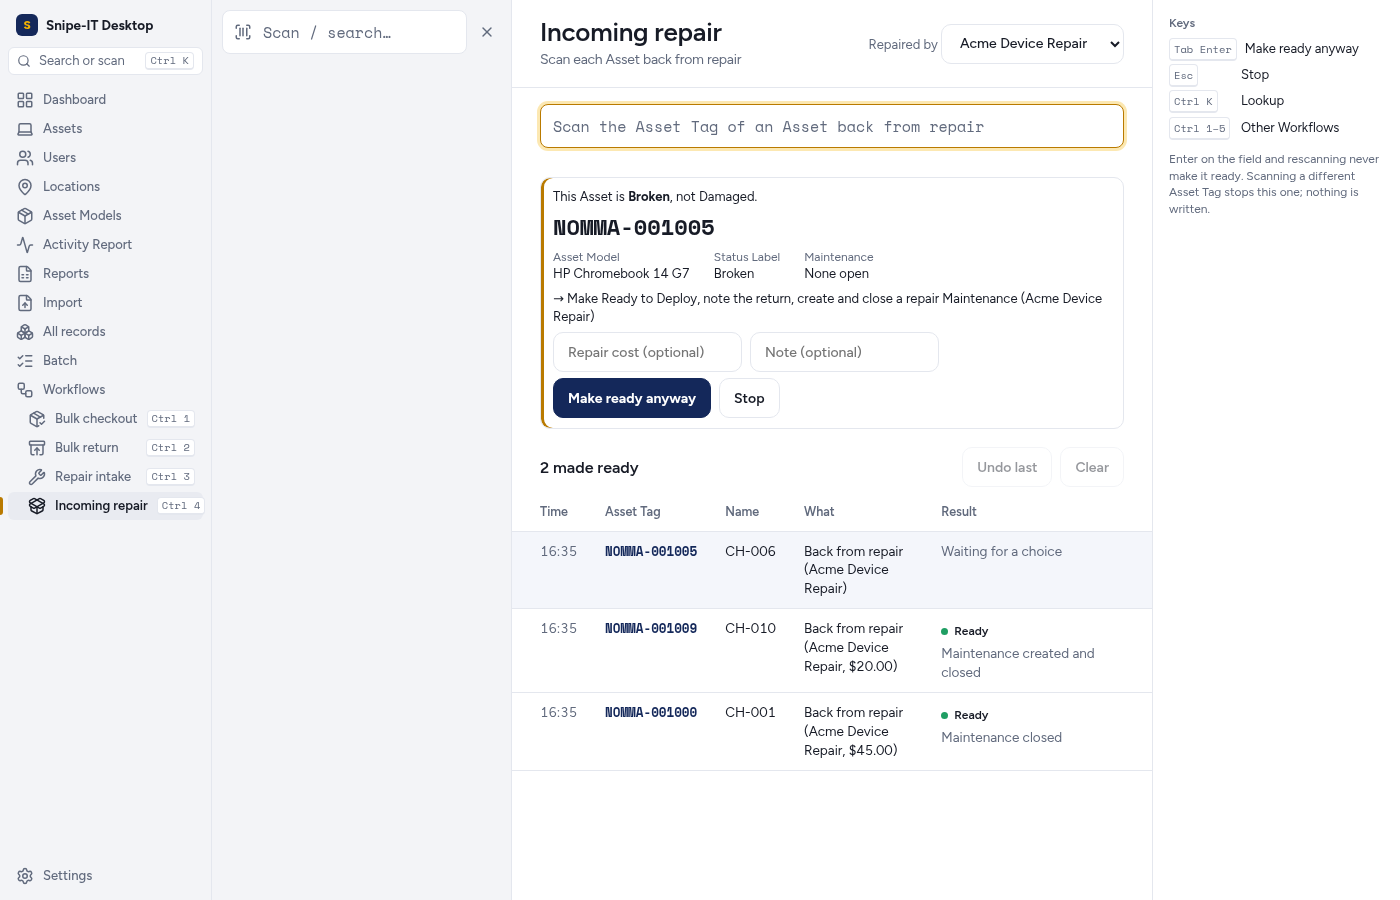
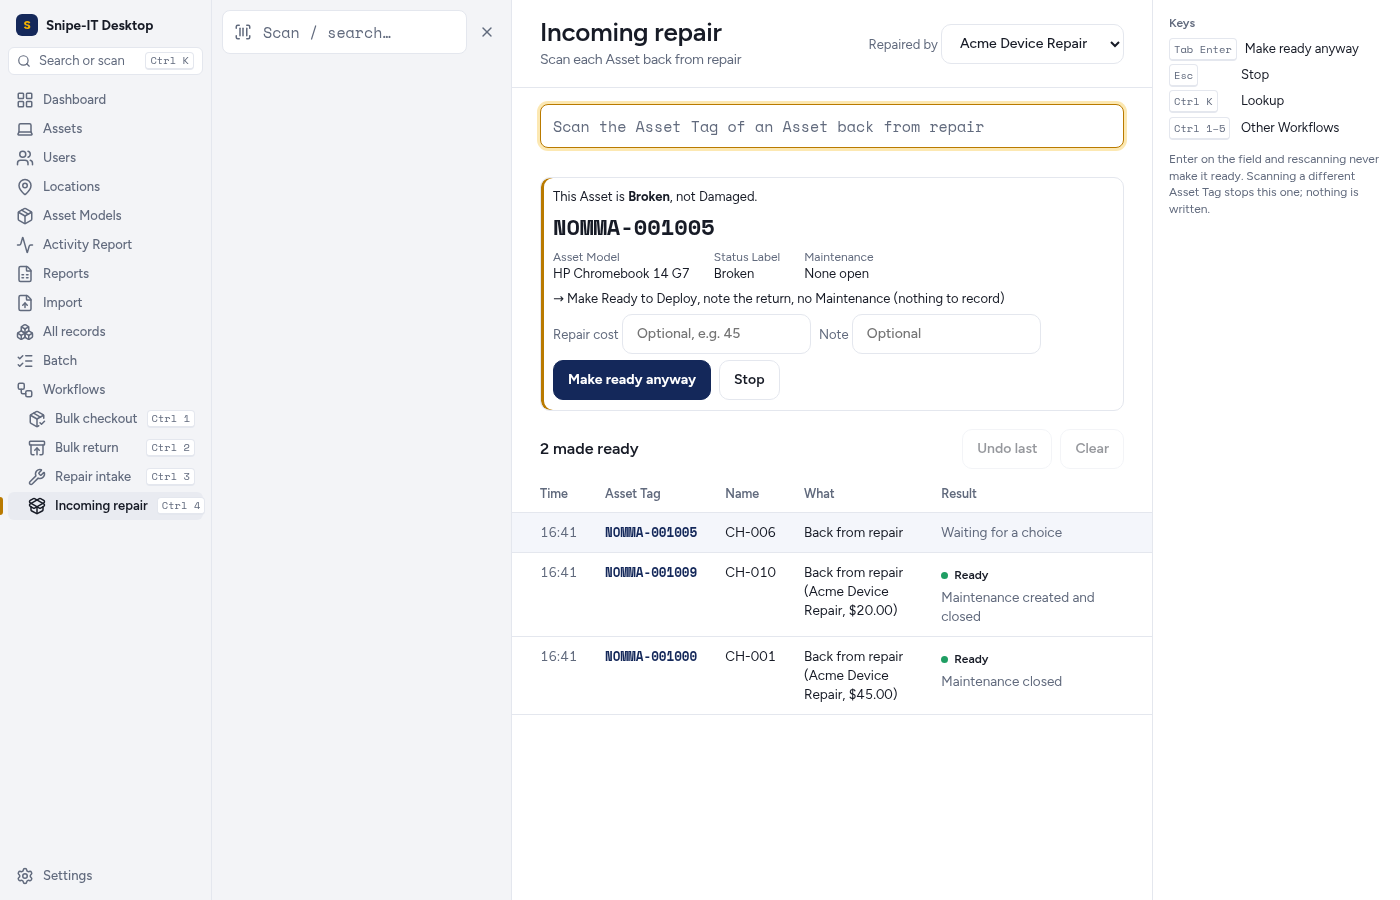
Review fixes: shared Repair type lookup, header Supplier alone records nothing for a non-Damaged Asset, Maintenance failures in the result
Also: Repair cost read back as two decimals (a numeric cost too) and checked as text at the IPC boundary, glossary
wording, labelled Repair cost and Note fields, and the screenshots again.

diff --git a/src/renderer/src/workflows.ts b/src/renderer/src/workflows.ts
@@ -589,12 +589,32 @@ export function createBulkCheckout(bridge: Pick<SnipeItBridge, 'assetByTag' | 'c
 export type BulkCheckout = ReturnType<typeof createBulkCheckout>
 
 export const DAMAGED = 'Damaged'
-const noLabel = (name: string) => `No Status Label named '${name}' in Snipe-IT; ask an admin to create one`
+const noLabel = (name: string) => `No Status Label named '${name}' in Snipe-IT; ask a Snipe-IT superuser to create one`
 export const NO_DAMAGED = noLabel(DAMAGED)
 const isRepair = (t: StatusLabel | null, typeId: number | null) => !!t && (t.id === typeId || t.name.trim().toLowerCase() === 'repair')
 /** What a repair Workflow needs from Snipe-IT before a scan: its Status Labels' ids by name, and the Maintenance type
  *  for repairs with the Settings id it was looked up with. */
 type RepairSetup = { labels: Record<string, number>; typeId: number | null; fallback: number | null }
+
+/** The Maintenance type for repairs, looked up once per session and shared by Repair intake and Incoming repair (#60
+ *  §1): looked up again while none is found, or when the Settings id it was looked up with changes. */
+export function sharedRepairType(lookup: SnipeItBridge['repairTypeId']) {
+  let kept: { fallback: number | null; id: Promise<number | null> } | null = null
+  return {
+    repairTypeId(fallback: number | null): Promise<number | null> {
+      if (kept?.fallback === fallback) return kept.id
+      const mine = { fallback, id: lookup(fallback) }
+      kept = mine
+      const forget = () => { if (kept === mine) kept = null }
+      mine.id.then((id) => id === null && forget(), forget)
+      return mine.id
+    },
+    /** Settings pointing at another server. */
+    reset() {
+      kept = null
+    },
+  }
+}
 
 // Repair intake and Incoming repair look up their Status Labels (by name, ignoring case) and the Maintenance type
 // (#59 §3's fallback chain) when they open, and keep them for the session. What isn't found yet is looked for again at
@@ -747,26 +767,32 @@ export function createRepairIntake(bridge: Pick<SnipeItBridge, 'assetByTag' | 'c
 export type RepairIntake = ReturnType<typeof createRepairIntake>
 
 /** What an Incoming repair scan was made under: the "Repaired by" Supplier then. Once its confirm or choice opens, also
- *  what the scan found (the newest open Repair Maintenance, how many others, the Repair type id) and the Repair cost
- *  typed there, as typed. */
-export type IncomingCtx = { supplier: StatusLabel | null; cost: string; found?: { open: OpenMaintenance | null; others: number; typeId: number | null } }
+ *  what the scan found (the newest open Repair Maintenance, how many others, the Repair type id, and whether it counts
+ *  as Damaged) and the Repair cost typed there, as typed. */
+export type IncomingCtx = { supplier: StatusLabel | null; cost: string; found?: { open: OpenMaintenance | null; others: number; typeId: number | null; damaged: boolean } }
 // A Repair cost as typed: '' when none, else `45.00`; throws with a message when it isn't a number.
 const costOf = (raw: string) => (raw.trim() ? repairCost(raw) : '')
 const wrong = (f: () => unknown) => { try { return f(), '' } catch (e) { return (e as Error).message } }
-const given = (supplier: StatusLabel | null, cost: string) => [supplier?.name, cost && `$${cost}`].filter(Boolean).join(', ')
-const backFrom = (supplier: StatusLabel | null, cost: string) => `Back from repair${given(supplier, cost) && ` (${given(supplier, cost)})`}`
+// "(Acme Device Repair, $45.00)", or '' with neither.
+const given = (supplier: StatusLabel | null, cost: string) => {
+  const g = [supplier?.name, cost && `$${cost}`].filter(Boolean).join(', ')
+  return g && ` (${g})`
+}
+const backFrom = (supplier: StatusLabel | null, cost: string) => `Back from repair${given(supplier, cost)}`
 // The Maintenance step (#60 §1): close the open one, create one and close it (only when a Supplier or Repair cost was
-// given), or, with no Repair type to create one with, put the Supplier and cost in the note so nothing typed is lost.
+// given), or, with no Repair type to create one with, put the Supplier and Repair cost in the note so nothing typed is
+// lost. An Asset made ready anyway (not Damaged) may never have gone for repair, so there the header's Supplier alone
+// records nothing; a Repair cost typed for it does.
 type Plan = 'close' | 'create' | 'note' | 'none'
 function planOf({ supplier, cost, found }: IncomingCtx): { plan: Plan; supplier: StatusLabel | null; cost: string } {
-  const { open, typeId } = found!
-  const c = (() => { try { return costOf(cost) } catch { return '' } })()
+  const { open, typeId, damaged } = found!
+  const c = wrong(() => costOf(cost)) ? '' : costOf(cost)
   // The Maintenance's own Supplier is kept; the header's fills one that has none.
   const s = open?.supplier ?? supplier
-  return { plan: open ? 'close' : !s && !c ? 'none' : typeId === null ? 'note' : 'create', supplier: s, cost: c }
+  return { plan: open ? 'close' : !c && !(s && damaged) ? 'none' : typeId === null ? 'note' : 'create', supplier: s, cost: c }
 }
 
-// Incoming repair (#60): pick who repaired the box once ("Repaired by"), then each scanned Asset is confirmed (with an
+// Incoming repair (#60): pick who repaired them once ("Repaired by"), then each scanned Asset is confirmed (with an
 // optional Repair cost and note), made Ready to Deploy, its return noted in History, and its open Repair Maintenance
 // closed with the Supplier and cost. Nothing after the status change undoes it.
 export function createIncomingRepair(
@@ -791,7 +817,9 @@ export function createIncomingRepair(
     // The newest is closed: Snipe-IT's ids grow with each new Maintenance.
     const open = repairs.reduce<OpenMaintenance | null>((n, m) => (n && n.id > m.id ? n : m), null)
     if (a.statusId === ready && !open) throw new Error('Already ready: nothing to do')
-    ctx.found = { open, others: Math.max(0, repairs.length - 1), typeId }
+    // Another status with an open Repair Maintenance counts as Damaged: someone changed the label by hand.
+    const isDamaged = a.statusId === damaged || !!open
+    ctx.found = { open, others: Math.max(0, repairs.length - 1), typeId, damaged: isDamaged }
 
     const write = async (current: Asset, text: string): Promise<Done> => {
       if (current.assignee || current.statusId !== a.statusId) throw new Error(`${a.assetTag} changed since it was scanned`)
@@ -802,6 +830,7 @@ export function createIncomingRepair(
       const still = () => sameSession(mine)
       await bridge.updateStatus(a.id, ready)
       still()
+      // "Ready, but <step> failed: <reason>" (#60 §2).
       const failed: string[] = []
       await bridge.addAssetNote(a.id, note).catch((e: Error) => failed.push(`the note failed: ${e.message}`))
       still()
@@ -820,7 +849,8 @@ export function createIncomingRepair(
           closed = true
           sub.push('Maintenance closed')
         } catch (e) {
-          sub.push(`Maintenance not closed: ${(e as Error).message}`)
+          sub.push('Maintenance not closed')
+          failed.push(`the Maintenance failed: ${(e as Error).message}`)
         }
         const n = ctx.found!.others
         if (n) sub.push(`${n} other open Maintenance${n === 1 ? '' : 's'} left as is`)
@@ -834,9 +864,10 @@ export function createIncomingRepair(
           await bridge.completeMaintenance(created, note)
           sub.push('Maintenance created and closed')
         } catch (e) {
-          sub.push(`Maintenance ${created === null ? 'not written' : 'created, not closed'}: ${(e as Error).message}`)
+          sub.push(`Maintenance ${created === null ? 'not written' : 'created, not closed'}`)
+          failed.push(`the Maintenance failed: ${(e as Error).message}`)
         }
-      } else sub.push(plan === 'note' ? 'Maintenance not written: no Repair type found' : 'Maintenance none (nothing to record)')
+      } else sub.push(plan === 'note' ? 'Maintenance not written: no Repair type found' : 'No Maintenance (nothing to record)')
 
       // Undo: the old Status Label and an undo note, then the Maintenance as it was. Only a failed status change stops it.
       const run = async (now: Asset): Promise<string> => {
@@ -858,14 +889,14 @@ export function createIncomingRepair(
         return left.join('; ')
       }
       const says = `${a.assetTag} made Ready to Deploy${closed ? ', its Maintenance closed' : created !== null ? ', a Maintenance created' : ''}`
-      return { text: `Ready${failed.length ? `, but ${failed.join('; ')}` : ''}`, what: backFrom(s, cost), sub, undo: { says, run } }
+      return { text: `Ready${failed.length ? `, but ${failed.join('; ')}` : ''}`, what: backFrom(plan === 'none' ? null : s, cost), sub, undo: { says, run } }
     }
 
-    const what = backFrom(open?.supplier ?? ctx.supplier, '')
+    // The header's Supplier shows only where it will be recorded.
+    const what = backFrom(isDamaged ? (open?.supplier ?? ctx.supplier) : null, '')
     // A link in the note, or a Repair cost that isn't a number, keeps it open.
     const check = (text: string) => wrong(() => (workflowNote('Incoming repair', { text }), costOf(ctx.cost)))
-    // Another status with an open Repair Maintenance counts as Damaged: someone changed the label by hand.
-    if (a.statusId === damaged || open) return { what, confirm: { check, write } }
+    if (isDamaged) return { what, confirm: { check, write } }
     return { what, choice: { fix: 'Make ready anyway', blocked: '', stop: 'not Damaged', check, write } }
   }, events, now, pace)
 
@@ -881,7 +912,7 @@ export function createIncomingRepair(
       supplier = s
       events.changed()
     },
-    /** Snipe-IT's Supplier picker list. */
+    /** Snipe-IT's Supplier picker list. ponytail: its first 50 by name, no search; a school has a few repair Suppliers. */
     suppliers: () => bridge.supplierSelectlist(''),
     /** Opening the Workflow: looks up what it doesn't have yet. fallback: Settings' Maintenance type for repairs. */
     open: (fallback: number | null) => setup.open(fallback),
@@ -893,11 +924,11 @@ export function createIncomingRepair(
       const ctx = openCtx()
       if (!ctx) return null
       const { plan, supplier: s, cost } = planOf(ctx)
-      const g = given(s, cost) && ` (${given(s, cost)})`
+      const g = given(s, cost)
       const step = {
         close: `, close the repair Maintenance${g}`,
         create: `, create and close a repair Maintenance${g}`,
-        note: ` with the ${[s && 'Supplier', cost && 'cost'].filter(Boolean).join(' and ')} (no Repair type found for a Maintenance)`,
+        note: ` with the ${[s && 'Supplier', cost && 'Repair cost'].filter(Boolean).join(' and ')} (no Repair type found for a Maintenance)`,
         none: ', no Maintenance (nothing to record)',
       }[plan]
       return `Make Ready to Deploy, note the return${step}`

diff --git a/src/renderer/src/workflows.test.ts b/src/renderer/src/workflows.test.ts
@@ -1,6 +1,6 @@
 import { describe, expect, it, vi } from 'vitest'
 import type { Asset, CheckinOptions, CheckoutOptions, MaintenanceChange, MaintenanceInput, OpenMaintenance, StatusLabel, UserCard } from '../../main/snipeit'
-import { cleanTag, createBulkCheckout, createBulkReturn, createIncomingRepair, createRepairIntake, createRunner, NOT_ALLOWED } from './workflows'
+import { cleanTag, createBulkCheckout, createBulkReturn, createIncomingRepair, createRepairIntake, createRunner, NOT_ALLOWED, sharedRepairType } from './workflows'
 
 // A fake Snipe-IT behind the Workflow bridge: fictional Assets, and every call recorded.
 const asset = (tag: string, more: Partial<Asset> = {}): Asset => ({
@@ -1279,7 +1279,7 @@ describe('Repair intake', () => {
     const fake = fakeBridge([asset('NOMMA-1')])
     const flow = createRepairIntake(fake.bridge, { changed: () => {} }, clock, 0)
     await flow.open(null)
-    expect(flow.blocked).toBe("No Status Label named 'Damaged' in Snipe-IT; ask an admin to create one")
+    expect(flow.blocked).toBe("No Status Label named 'Damaged' in Snipe-IT; ask a Snipe-IT superuser to create one")
     expect(flow.scan('NOMMA-1')).toBe(flow.blocked)
     expect(flow.runner.rows).toEqual([])
     // Created since: the next open finds it.
@@ -1486,7 +1486,7 @@ describe('Incoming repair', () => {
       fake.bridge.statusLabels.mockResolvedValue(labels)
       const flow = createIncomingRepair(fake.bridge, { changed: () => {} }, clock, 0)
       await flow.open(null)
-      expect(flow.blocked).toBe(labels === LABELS ? "No Status Label named 'Damaged' in Snipe-IT; ask an admin to create one" : "No Status Label named 'Ready to Deploy' in Snipe-IT; ask an admin to create one")
+      expect(flow.blocked).toBe(labels === LABELS ? "No Status Label named 'Damaged' in Snipe-IT; ask a Snipe-IT superuser to create one" : "No Status Label named 'Ready to Deploy' in Snipe-IT; ask a Snipe-IT superuser to create one")
       expect(flow.scan('NOMMA-1')).toBe(flow.blocked)
       expect(flow.runner.rows).toEqual([])
     }
@@ -1555,7 +1555,7 @@ describe('Incoming repair', () => {
       flow.runner.confirmOpen()
       await settled(flow)
       expect(writes(calls)).toEqual(['status 1 1', 'note 1 [Incoming repair]'])
-      expect(flow.runner.rows[0].sub).toEqual(['Maintenance none (nothing to record)'])
+      expect(flow.runner.rows[0].sub).toEqual(['No Maintenance (nothing to record)'])
     })
 
     it('one must be created but no Repair type is found: the Supplier and cost go in the note instead', async () => {
@@ -1564,7 +1564,7 @@ describe('Incoming repair', () => {
       flow.scan('NOMMA-1')
       await showing(flow)
       flow.setCost('45')
-      expect(flow.says).toBe('Make Ready to Deploy, note the return with the Supplier and cost (no Repair type found for a Maintenance)')
+      expect(flow.says).toBe('Make Ready to Deploy, note the return with the Supplier and Repair cost (no Repair type found for a Maintenance)')
       flow.runner.setText('screen replaced')
       flow.runner.confirmOpen()
       await settled(flow)
@@ -1575,7 +1575,7 @@ describe('Incoming repair', () => {
     it("a Maintenance step that fails leaves the Asset Ready and says why; a failed note says so in the result", async () => {
       const { flow, bridge } = await opened([damaged('NOMMA-1'), damaged('NOMMA-2')], { 1: [maintenance(51)] })
       bridge.completeMaintenance.mockRejectedValueOnce(new Error('This maintenance is already complete.'))
-      expect((await back(flow, 'NOMMA-1')).sub).toEqual(['Maintenance not closed: This maintenance is already complete.'])
+      expect(await back(flow, 'NOMMA-1')).toMatchObject({ result: { state: 'done', text: 'Ready, but the Maintenance failed: This maintenance is already complete.' }, sub: ['Maintenance not closed'] })
       bridge.addAssetNote.mockRejectedValueOnce(new Error('Snipe-IT returned HTTP 500'))
       expect((await back(flow, 'NOMMA-2')).result).toEqual({ state: 'done', text: 'Ready, but the note failed: Snipe-IT returned HTTP 500' })
     })
@@ -1646,6 +1646,32 @@ describe('Incoming repair', () => {
         'maintenance 1 type 9 "NOMMA-1 repair" 2026-10-11 [Incoming repair] No Repair intake record supplier 3 cost 30.00', 'complete maintenance 61 [Incoming repair] hinge replaced',
       ])
     })
+  })
+
+  it("made ready anyway, the header's Supplier alone records no Maintenance: the Asset may never have gone for repair", async () => {
+    const { flow, calls } = await opened([damaged('NOMMA-1', { status: 'Pending', statusId: 5, statusType: 'pending' })])
+    flow.setSupplier(ACME)
+    flow.scan('NOMMA-1')
+    await showing(flow)
+    expect(flow.says).toBe('Make Ready to Deploy, note the return, no Maintenance (nothing to record)')
+    flow.runner.fixOpen()
+    await settled(flow)
+    expect(writes(calls)).toEqual(['status 1 1', 'note 1 [Incoming repair]'])
+  })
+
+  it('shares one Repair type lookup with Repair intake for the session, looked up again while none is found or the Settings id changes', async () => {
+    const lookup = vi.fn(async (fallback: number | null) => (fallback === 12 ? 4 : null))
+    const shared = sharedRepairType(lookup)
+    expect(await shared.repairTypeId(null)).toBeNull()
+    expect(await shared.repairTypeId(null)).toBeNull()
+    expect(await shared.repairTypeId(12)).toBe(4)
+    expect(await shared.repairTypeId(12)).toBe(4)
+    expect(lookup.mock.calls).toEqual([[null], [null], [12]])
+    lookup.mockRejectedValueOnce(new Error("Can't reach Snipe-IT"))
+    shared.reset()
+    await expect(shared.repairTypeId(12)).rejects.toThrow("Can't reach Snipe-IT")
+    expect(await shared.repairTypeId(12)).toBe(4)
+    expect(lookup).toHaveBeenCalledTimes(5)
   })
 
   describe('Repair cost', () => {

diff --git a/src/main/snipeit.ts b/src/main/snipeit.ts
@@ -287,7 +287,13 @@ type RawActivity = {
 
 const EXPIRING_DAYS = 90
 // A Repair cost as the app writes it (notes.ts repairCost): 45.00.
-const COST = /^\d+\.\d{2}$/
+const isCost = (v: unknown) => typeof v === 'string' && /^\d+\.\d{2}$/.test(v)
+// A Maintenance's cost as Snipe-IT sends it ("1,234.5", or a number) as the app writes it, or null. ponytail: assumes a
+// '.' decimal separator, as #79 does.
+const costOf = (v: unknown) => {
+  const n = Number(String(v ?? '').replace(/,/g, ''))
+  return v === null || v === undefined || v === '' || !(n >= 0) ? null : n.toFixed(2)
+}
 // Rows per List page.
 export const LIST_PAGE = 50
 // Kinds counted by quantity: their list, and the fields for the whole quantity and the available part. Used is the rest.
@@ -1209,7 +1215,7 @@ export function createSnipeIt(config: Config, fetch: typeof globalThis.fetch, to
       // Snipe-IT sends the cost formatted ("1,234.50") and the notes rendered from Markdown.
       return body.rows.map((m) => ({
         id: m.id, type: named(m.maintenance_type_details), startDate: m.start_date?.date ?? null, notes: plainText(m.notes ?? ''),
-        supplier: named(m.supplier), cost: String(m.cost ?? '').replace(/[^\d.]/g, '') || null,
+        supplier: named(m.supplier), cost: costOf(m.cost),
       }))
     },
     // Opens a Maintenance on one Asset; resolves to its id. Needs `assets.edit`.
@@ -1217,7 +1223,7 @@ export function createSnipeIt(config: Config, fetch: typeof globalThis.fetch, to
       checkId(assetId)
       checkId(typeId, 'Maintenance type')
       if (supplierId !== undefined) checkId(supplierId, 'Supplier')
-      if (typeof name !== 'string' || !name.trim() || typeof notes !== 'string' || !/^\d{4}-\d{2}-\d{2}$/.test(startDate) || (cost !== undefined && !COST.test(cost))) throw new Error('Invalid Maintenance')
+      if (typeof name !== 'string' || !name.trim() || typeof notes !== 'string' || !/^\d{4}-\d{2}-\d{2}$/.test(startDate) || (cost !== undefined && !isCost(cost))) throw new Error('Invalid Maintenance')
       const body = await request<{ payload?: { id?: number } }>('/maintenances', { asset_id: assetId, maintenance_type_id: typeId, name, start_date: startDate, notes, ...(supplierId !== undefined && { supplier_id: supplierId }), ...(cost !== undefined && { cost }) })
       if (isError(body)) throw new Error(reason(body.messages))
       return Number(body.payload?.id)
@@ -1227,7 +1233,7 @@ export function createSnipeIt(config: Config, fetch: typeof globalThis.fetch, to
     async updateMaintenance(id: number, { supplierId, cost, reopen }: MaintenanceChange): Promise<void> {
       checkId(id, 'Maintenance')
       if (supplierId != null) checkId(supplierId, 'Supplier')
-      if (cost != null && !COST.test(cost)) throw new Error('Invalid Maintenance')
+      if (cost != null && !isCost(cost)) throw new Error('Invalid Maintenance')
       const body = await request(`/maintenances/${id}`, {
         ...(supplierId !== undefined && { supplier_id: supplierId }), ...(cost !== undefined && { cost }),
         ...(reopen === true && { completed_at: null, completed_by: null, asset_maintenance_time: null }),

diff --git a/src/renderer/src/App.tsx b/src/renderer/src/App.tsx
@@ -13,7 +13,7 @@ import { FieldGrid, RecordView } from './RecordView'
 import { DeleteButton, RecordForm } from './RecordForm'
 import { GroupsView, type CanManage } from './AccessView'
 import { AssetCodes, PrintLabel } from './AssetCodes'
-import { createBulkCheckout, createBulkReturn, createIncomingRepair, createRepairIntake, NOT_ALLOWED, type Runner } from './workflows'
+import { createBulkCheckout, createBulkReturn, createIncomingRepair, createRepairIntake, NOT_ALLOWED, sharedRepairType, type Runner } from './workflows'
 import { BUILT, BulkCheckoutView, BulkReturnView, errorSound, IncomingRepairView, RepairIntakeView, shortcut, workflowIcon, WorkflowsPage } from './WorkflowsView'
 
 const statusColor: Record<string, string> = {
@@ -101,8 +101,10 @@ export function App() {
   const [, changed] = useReducer((n: number) => n + 1, 0)
   const [bulkCheckout] = useState(() => createBulkCheckout(window.snipeIt, { changed, failed: errorSound }))
   const [bulkReturn] = useState(() => createBulkReturn(window.snipeIt, { changed, failed: errorSound }))
-  const [repairIntake] = useState(() => createRepairIntake(window.snipeIt, { changed, failed: errorSound }))
-  const [incomingRepair] = useState(() => createIncomingRepair(window.snipeIt, { changed, failed: errorSound }))
+  // The two repair Workflows share one Repair type lookup (#60 §1).
+  const [repairType] = useState(() => sharedRepairType(window.snipeIt.repairTypeId))
+  const [repairIntake] = useState(() => createRepairIntake({ ...window.snipeIt, repairTypeId: repairType.repairTypeId }, { changed, failed: errorSound }))
+  const [incomingRepair] = useState(() => createIncomingRepair({ ...window.snipeIt, repairTypeId: repairType.repairTypeId }, { changed, failed: errorSound }))
   const runners: Partial<Record<Workflow, Pick<Runner, 'rows' | 'pending'>>> = { 'Bulk checkout': bulkCheckout.runner, 'Bulk return': bulkReturn.runner, 'Repair intake': repairIntake.runner, 'Incoming repair': incomingRepair.runner }
   const workflowField = useRef<HTMLInputElement>(null)
   // Whether the Operator's own account may manage permissions: null until Snipe-IT says, or why it couldn't be asked.
@@ -181,6 +183,7 @@ export function App() {
     if (!over) return
     bulkCheckout.reset()
     bulkReturn.reset()
+    repairType.reset()
     repairIntake.reset()
     incomingRepair.reset()
     cancel(); setAsset(null); setRecent([]); batchEpoch.current++; batchBusy.current = false; setBatch([]); bulkBusy.current = false; setBulk(null); setBatchRun({ busy: false, last: null }); setMatches({ label: '', assets: [] }); setOthers([]); setView(null); setQuery(''); setMessage({ text: '' }); setStatusLabels([]); setLocations([]); setCanManage(null); setCanImport(false)

diff --git a/src/main/snipeit.test.ts b/src/main/snipeit.test.ts
@@ -1545,10 +1545,11 @@ describe('Incoming repair', () => {
   })
 
   it("an open Maintenance carries its start date, plain notes, Supplier and Repair cost (as Snipe-IT's number)", async () => {
-    const { fetch } = fakeFetch({ '/maintenances': { body: { total: 2, rows: [open, { id: 52, name: 'x', notes: null, supplier: null, cost: null, start_date: null, maintenance_type_details: null }] } } })
+    const { fetch } = fakeFetch({ '/maintenances': { body: { total: 3, rows: [open, { id: 52, name: 'x', notes: null, supplier: null, cost: null, start_date: null, maintenance_type_details: null }, { ...open, id: 53, cost: 30 }] } } })
     expect(await createSnipeIt(config, fetch).openMaintenances(4812)).toEqual([
       { id: 51, type: { id: 4, name: 'Repair' }, startDate: '2026-10-01', notes: '[Repair intake] cracked & bent', supplier: { id: 3, name: 'Campus Tech Supply' }, cost: '1234.50' },
       { id: 52, type: null, startDate: null, notes: '', supplier: null, cost: null },
+      expect.objectContaining({ id: 53, cost: '30.00' }),
     ])
   })
 
@@ -1571,7 +1572,7 @@ describe('Incoming repair', () => {
       ['PATCH', '/maintenances/51', { cost: '45.00' }],
       ['PATCH', '/maintenances/51', { supplier_id: null, cost: null, completed_at: null, completed_by: null, asset_maintenance_time: null }],
     ])
-    for (const bad of [{ cost: '1,234.50' }, { supplierId: 1.5 }, { cost: '-1.00' }]) await expect(snipeIt.updateMaintenance(51, bad)).rejects.toThrow('Invalid')
+    for (const bad of [{ cost: '1,234.50' }, { supplierId: 1.5 }, { cost: '-1.00' }, { cost: ['45.00'] as unknown as string }]) await expect(snipeIt.updateMaintenance(51, bad)).rejects.toThrow('Invalid')
     expect(requests).toHaveLength(3)
     const refused = fakeFetch({ 'PATCH /maintenances/51': { body: { status: 'error', messages: { cost: ['The cost must be a number.'] }, payload: null } } })
     await expect(createSnipeIt(config, refused.fetch).updateMaintenance(51, { cost: '45.00' })).rejects.toThrow('The cost must be a number.')

diff --git a/src/renderer/src/WorkflowsView.tsx b/src/renderer/src/WorkflowsView.tsx
@@ -538,7 +538,7 @@ export function RepairIntakeView({ flow, field, repairTypeId, onOpenAsset }: {
   )
 }
 
-// Incoming repair (#60). "Repaired by" is picked once for the box. The scan field keeps focus through the confirm (scan,
+// Incoming repair (#60). "Repaired by" is picked once for everything coming back from that Supplier. The scan field keeps focus through the confirm (scan,
 // then Enter or the same tag again); Tab or a click reaches the Repair cost and Note, where Enter confirms too. An Asset
 // that isn't Damaged opens a choice there instead: Make ready anyway (a click, or Tab to it and Enter) or Stop (Esc).
 export function IncomingRepairView({ flow, field, repairTypeId, onOpenAsset }: {
